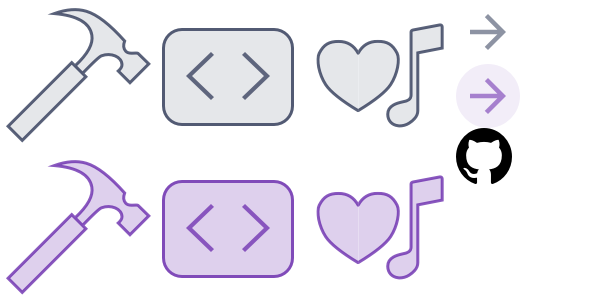
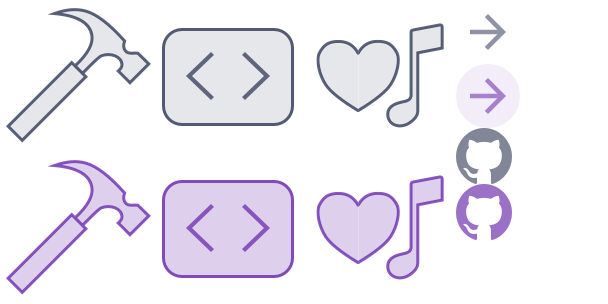
update: copyright layout & color scheme.

Changed region(s): [[0.75, 0.4145, 0.8438, 0.7993]]

diff --git a/index.html b/index.html
@@ -16,7 +16,7 @@
             <img src="https://cdn.jsdelivr.net/gh/etigerstudio/etigerstudio-site/img/introduction.svg" class="ets-introduction">
             <div class="ets-link-header">
                 <a href="https://github.com/etigerstudio" class="ets-link-github"></a>
-                <span class="ets-copyright">Copyright 2018</span>
+                <div class="ets-copyright">Copyright 2018-19</div>
             </div>
         </div>
         <div class="cell large-5 medium-5 small-12 ets-card-hidden ets-card-container ets-slow-animated" id="right-col">
@@ -33,7 +33,7 @@
                     <div class="ets-card-arrow"></div>
                     <div class="ets-card-icon ets-icon-code"></div>
                     <span class="ets-card-header">技术博客</span>
-                    <p>美味开发、设计八卦菜谱。</p>
+                    <p>美味的设计、开发八卦菜谱。</p>
                 </div>
             </a>
             <a href="https://feverfree.etiger.studio" class="ets-link-wrapper">
@@ -50,7 +50,7 @@
 <div align="center">
     <div class="ets-link-footer">
         <a class="ets-link-github" href="https://github.com/etigerstudio"></a>
-        <span class="ets-copyright">Copyright 2018-19</span>
+        <div class="ets-copyright">Copyright 2018-19</div>
     </div>
 </div>
 

diff --git a/css/ets-home.css b/css/ets-home.css
@@ -219,11 +219,11 @@ h6, .h6 {
     height: 28px;
     background: url(../img/hero-icons.png) no-repeat -228px -64px;
     background-size: 304px 152px;
-    opacity: 0.4;
 }
 
 .ets-link-github:hover {
-    opacity: 0.7;
+    background: url(../img/hero-icons.png) no-repeat -228px -92px;
+    background-size: 304px 152px;
 }
 
 .ets-link-footer {
@@ -238,7 +238,7 @@ h6, .h6 {
 
 .ets-link-header {
     display: none;
-    margin-top: 3vh;
+    margin-top: calc(1vh + 20px);
 }
 
 @media print, screen and (min-width: 40em) {
@@ -249,7 +249,8 @@ h6, .h6 {
 
 .ets-copyright {
     font-size: 12px;
-    color: rgba(0, 0, 0, 0.4);
+    margin-top: 8px;
+    color: rgba(0, 33, 135, 0.4);
 }
 
 .ets-link-wrapper {
